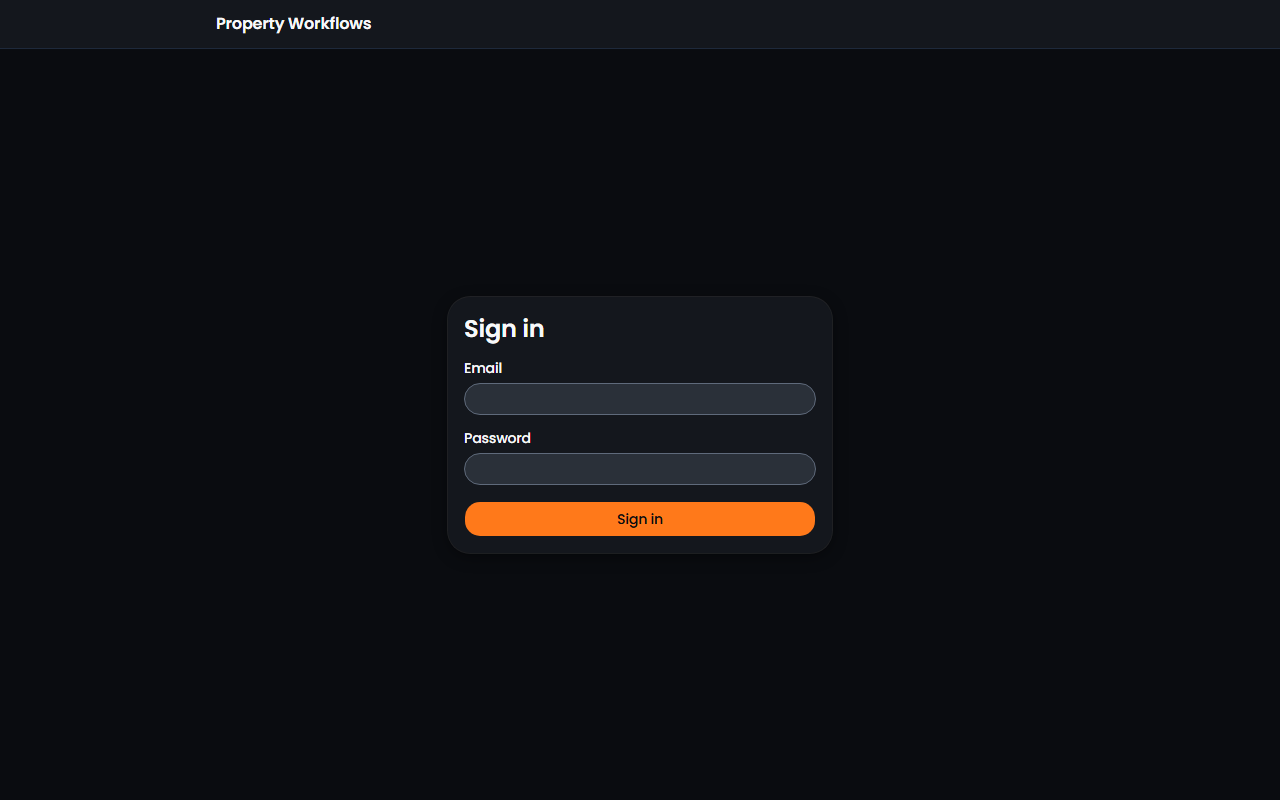
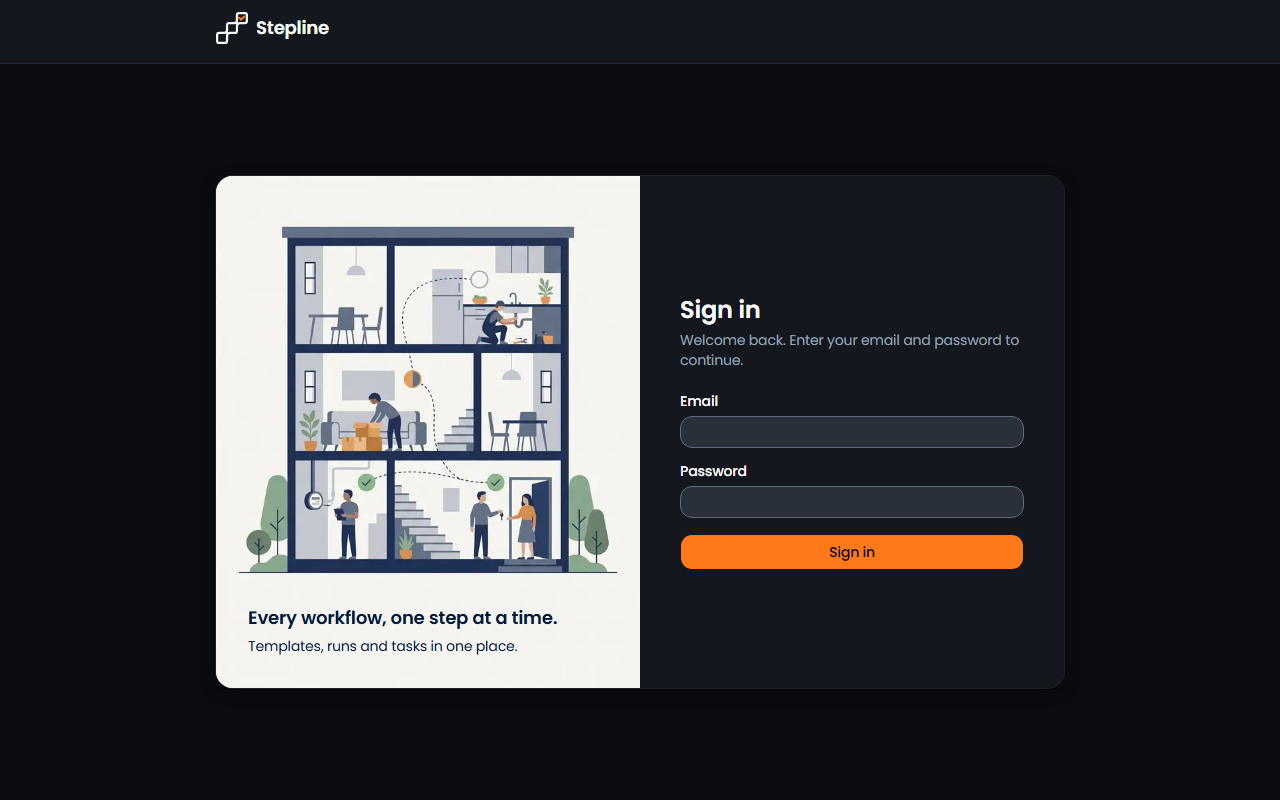
Назва й лого «Stepline», вхід з ілюстрацією, менший радіус, тонше кільце фокусу полів
- Logo (src/components/logo.tsx): SVG-значок за лого розробника (три сходинки + позначка «виконано») і назва;
  контур — колір тексту, позначка — новий токен brand, тож лого читається в обох темах; favicon — той самий значок.
- Вхід: картка з ілюстрацією зліва (з md) і формою справа в тій самій розкладці AppShell (AC-DSYS-03);
  підпис на ілюстрації — токени illustration / illustration-foreground (15.7:1 в обох темах).
- --radius 1rem → 0.75rem; поля вводу й NativeSelect — ring-1 замість ring-3 при фокусі.
- DESIGN.md: назва, нові токени й контраст, Logo в компонентах, стан «Не увійшов»; знімки «після» — з прод-збірки.

Changed region(s): [[0.1562, 0.2188, 0.8125, 0.875], [0.1562, 0.0, 0.2812, 0.0625]]

diff --git a/src/app/login/page.tsx b/src/app/login/page.tsx
@@ -1,10 +1,12 @@
+import Image from "next/image";
 import { AppShell } from "@/components/app-shell";
 import { Alert, AlertDescription } from "@/components/ui/alert";
 import { Button } from "@/components/ui/button";
-import { Card, CardContent, CardHeader, CardTitle } from "@/components/ui/card";
+import { Card } from "@/components/ui/card";
 import { Input } from "@/components/ui/input";
 import { Label } from "@/components/ui/label";
 import { login } from "./actions";
+import hero from "./login-hero.jpg";
 
 // Тексти — спокійні, без звинувачень (DESIGN.md, розділ 1); помилка входу не підказує, чи існує email.
 const ERRORS: Record<string, string> = {
@@ -12,6 +14,8 @@ const ERRORS: Record<string, string> = {
   invalid: "The email or password is not correct.",
 };
 
+// Вхід — у тій самій розкладці AppShell (AC-DSYS-03): картка з ілюстрацією зліва (з md) і формою справа; на телефоні —
+// лише форма. Ілюстрація декоративна (порожній alt); підпис на ній — токени illustration (DESIGN.md, розділ 2).
 export default async function LoginPage({ searchParams }: PageProps<"/login">) {
   const { error } = await searchParams;
   const message = typeof error === "string" && Object.hasOwn(ERRORS, error) ? ERRORS[error] : undefined;
@@ -19,13 +23,27 @@ export default async function LoginPage({ searchParams }: PageProps<"/login">) {
   return (
     <AppShell>
       <main className="flex flex-1 items-start justify-center sm:items-center">
-        <Card className="w-full max-w-sm">
-          <CardHeader>
-            <CardTitle>
+        <Card className="w-full max-w-sm gap-0 py-0 md:grid md:max-w-none md:grid-cols-2">
+          <div className="relative hidden min-h-[32rem] bg-illustration md:block">
+            <Image
+              src={hero}
+              alt=""
+              fill
+              preload
+              placeholder="blur"
+              sizes="(min-width: 768px) 28rem, 1px"
+              className="object-cover object-top"
+            />
+            <div className="absolute inset-x-0 bottom-0 flex flex-col gap-1 p-8 text-illustration-foreground">
+              <p className="text-lg font-semibold">Every workflow, one step at a time.</p>
+              <p className="text-sm">Templates, runs and tasks in one place.</p>
+            </div>
+          </div>
+          <div className="flex flex-col justify-center gap-6 p-6 sm:p-10">
+            <div className="flex flex-col gap-1">
               <h1 className="text-2xl font-semibold">Sign in</h1>
-            </CardTitle>
-          </CardHeader>
-          <CardContent>
+              <p className="text-sm text-muted-foreground">Welcome back. Enter your email and password to continue.</p>
+            </div>
             <form action={login} className="flex flex-col gap-4">
               {message ? (
                 <Alert variant="destructive">
@@ -44,7 +62,7 @@ export default async function LoginPage({ searchParams }: PageProps<"/login">) {
                 Sign in
               </Button>
             </form>
-          </CardContent>
+          </div>
         </Card>
       </main>
     </AppShell>

diff --git a/src/app/globals.css b/src/app/globals.css
@@ -36,6 +36,9 @@
   --color-status-done-foreground: var(--status-done-foreground);
   --color-status-unpublished: var(--status-unpublished);
   --color-status-unpublished-foreground: var(--status-unpublished-foreground);
+  --color-brand: var(--brand);
+  --color-illustration: var(--illustration);
+  --color-illustration-foreground: var(--illustration-foreground);
   --radius-sm: calc(var(--radius) * 0.6);
   --radius-md: calc(var(--radius) * 0.8);
   --radius-lg: var(--radius);
@@ -50,7 +53,7 @@
 }
 
 :root {
-  --radius: 1rem;
+  --radius: 0.75rem;
   --tracking-normal: -0.01em;
   --background: oklch(1 0 0);
   --foreground: oklch(0.2226 0.0753 255.7444);
@@ -78,6 +81,10 @@
   --status-done-foreground: oklch(0.42 0.12 150);
   --status-unpublished: oklch(0.94 0.1 92);
   --status-unpublished-foreground: oklch(0.43 0.09 65);
+  --brand: oklch(0.7336 0.1843 52.938);
+  /* ілюстрація входу світла в обох темах, тож її тло й текст на ній у темній темі не змінюються */
+  --illustration: oklch(0.967 0.004 95);
+  --illustration-foreground: oklch(0.2226 0.0753 255.7444);
   --elevation-xs: 0px 4px 10px 0px hsl(0 0% 0% / 0.03);
   --elevation-sm: 0px 4px 10px 0px hsl(0 0% 0% / 0.05), 0px 1px 2px -1px hsl(0 0% 0% / 0.05);
   --elevation-md: 0px 4px 10px 0px hsl(0 0% 0% / 0.05), 0px 2px 4px -1px hsl(0 0% 0% / 0.05);
@@ -112,6 +119,7 @@
     --status-done-foreground: oklch(0.88 0.09 150);
     --status-unpublished: oklch(0.33 0.06 85);
     --status-unpublished-foreground: oklch(0.93 0.09 95);
+    --brand: oklch(0.7222 0.1875 48.4986);
     --elevation-xs: 0px 4px 15px 0px hsl(0 0% 0% / 0.2);
     --elevation-sm: 0px 4px 15px 0px hsl(0 0% 0% / 0.4), 0px 1px 2px -1px hsl(0 0% 0% / 0.4);
     --elevation-md: 0px 4px 15px 0px hsl(0 0% 0% / 0.4), 0px 2px 4px -1px hsl(0 0% 0% / 0.4);

diff --git a/src/components/ui/native-select.tsx b/src/components/ui/native-select.tsx
@@ -23,7 +23,7 @@ function NativeSelect({
       <select
         data-slot="native-select"
         data-size={size}
-        className="h-8 w-full min-w-0 appearance-none rounded-lg border border-input bg-transparent py-1 pr-8 pl-2.5 text-sm transition-colors outline-none select-none selection:bg-primary selection:text-primary-foreground placeholder:text-muted-foreground focus-visible:border-ring focus-visible:ring-3 focus-visible:ring-ring/50 disabled:pointer-events-none disabled:cursor-not-allowed aria-invalid:border-destructive aria-invalid:ring-3 aria-invalid:ring-destructive/20 data-[size=sm]:h-7 data-[size=sm]:rounded-[min(var(--radius-md),10px)] data-[size=sm]:py-0.5 dark:bg-input/30 dark:hover:bg-input/50 dark:aria-invalid:border-destructive/50 dark:aria-invalid:ring-destructive/40"
+        className="h-8 w-full min-w-0 appearance-none rounded-lg border border-input bg-transparent py-1 pr-8 pl-2.5 text-sm transition-colors outline-none select-none selection:bg-primary selection:text-primary-foreground placeholder:text-muted-foreground focus-visible:border-ring focus-visible:ring-1 focus-visible:ring-ring/50 disabled:pointer-events-none disabled:cursor-not-allowed aria-invalid:border-destructive aria-invalid:ring-3 aria-invalid:ring-destructive/20 data-[size=sm]:h-7 data-[size=sm]:rounded-[min(var(--radius-md),10px)] data-[size=sm]:py-0.5 dark:bg-input/30 dark:hover:bg-input/50 dark:aria-invalid:border-destructive/50 dark:aria-invalid:ring-destructive/40"
         {...props}
       />
       <ChevronDownIcon className="pointer-events-none absolute top-1/2 right-2.5 size-4 -translate-y-1/2 text-muted-foreground select-none" aria-hidden="true" data-slot="native-select-icon" />

diff --git a/src/components/ui/input.tsx b/src/components/ui/input.tsx
@@ -8,7 +8,7 @@ function Input({ className, type, ...props }: React.ComponentProps<"input">) {
       type={type}
       data-slot="input"
       className={cn(
-        "h-8 w-full min-w-0 rounded-lg border border-input bg-transparent px-2.5 py-1 text-base transition-colors outline-none file:inline-flex file:h-6 file:border-0 file:bg-transparent file:text-sm file:font-medium file:text-foreground placeholder:text-muted-foreground focus-visible:border-ring focus-visible:ring-3 focus-visible:ring-ring/50 disabled:pointer-events-none disabled:cursor-not-allowed disabled:bg-input/50 disabled:opacity-50 aria-invalid:border-destructive aria-invalid:ring-3 aria-invalid:ring-destructive/20 md:text-sm dark:bg-input/30 dark:disabled:bg-input/80 dark:aria-invalid:border-destructive/50 dark:aria-invalid:ring-destructive/40",
+        "h-8 w-full min-w-0 rounded-lg border border-input bg-transparent px-2.5 py-1 text-base transition-colors outline-none file:inline-flex file:h-6 file:border-0 file:bg-transparent file:text-sm file:font-medium file:text-foreground placeholder:text-muted-foreground focus-visible:border-ring focus-visible:ring-1 focus-visible:ring-ring/50 disabled:pointer-events-none disabled:cursor-not-allowed disabled:bg-input/50 disabled:opacity-50 aria-invalid:border-destructive aria-invalid:ring-3 aria-invalid:ring-destructive/20 md:text-sm dark:bg-input/30 dark:disabled:bg-input/80 dark:aria-invalid:border-destructive/50 dark:aria-invalid:ring-destructive/40",
         className
       )}
       {...props}

diff --git a/src/components/logo.tsx b/src/components/logo.tsx
@@ -1,0 +1,26 @@
+import { cn } from "cn";
+
+// Логотип Stepline (DESIGN.md, розділ 5): значок — три сходинки-кроки з позначкою «виконано» у верхній, поруч назва.
+// Контур бере колір тексту, позначка — токен brand, тож лого однаково читається у світлій і темній темі.
+const STEPS =
+  "M12 432V342a30 30 0 0 1 30-30h76a44 44 0 0 0 44-44v-76a30 30 0 0 1 30-30h76a44 44 0 0 0 44-44V42a30 30 0 0 1 30-30h90" +
+  "a30 30 0 0 1 30 30v90a30 30 0 0 1-30 30h-76a44 44 0 0 0-44 44v76a30 30 0 0 1-30 30h-76a44 44 0 0 0-44 44v76" +
+  "a30 30 0 0 1-30 30H42a30 30 0 0 1-30-30Z";
+
+export function LogoMark({ className }: { className?: string }) {
+  return (
+    <svg viewBox="-5 -5 484 484" fill="none" strokeLinecap="round" strokeLinejoin="round" aria-hidden className={className}>
+      <path d={STEPS} stroke="currentColor" strokeWidth={34} />
+      <path d="M347 82l25 30 53-50" className="stroke-brand" strokeWidth={30} />
+    </svg>
+  );
+}
+
+export function Logo({ className }: { className?: string }) {
+  return (
+    <span className={cn("inline-flex items-center gap-2", className)}>
+      <LogoMark className="size-8 shrink-0" />
+      <span className="text-lg font-semibold">Stepline</span>
+    </span>
+  );
+}

diff --git a/src/components/app-shell.tsx b/src/components/app-shell.tsx
@@ -1,9 +1,10 @@
 import Link from "next/link";
 import { signOut } from "@/app/login/actions";
+import { Logo } from "@/components/logo";
 import { Badge } from "@/components/ui/badge";
 import { Button } from "@/components/ui/button";
 
-// Одна розкладка для всіх сторінок, зокрема для входу (DESIGN.md, розділ 4): шапка з назвою застосунку, а для
+// Одна розкладка для всіх сторінок, зокрема для входу (DESIGN.md, розділ 4): шапка з логотипом застосунку, а для
 // користувача, який увійшов, — навігація, email, роль і вихід. Вміст сторінки — у тому самому контейнері.
 export function AppShell({
   user,
@@ -17,8 +18,8 @@ export function AppShell({
       <header className="border-b bg-card">
         <div className="mx-auto flex w-full max-w-4xl flex-wrap items-center justify-between gap-3 px-4 py-3 sm:px-6">
           <div className="flex items-center gap-6">
-            <Link href="/" className="text-base font-semibold">
-              Property Workflows
+            <Link href="/">
+              <Logo />
             </Link>
             {user ? (
               <nav aria-label="Main" className="flex gap-4 text-sm">

diff --git a/src/app/layout.tsx b/src/app/layout.tsx
@@ -15,8 +15,8 @@ const jetbrainsMono = JetBrains_Mono({
 });
 
 export const metadata: Metadata = {
-  title: "Property Workflows",
-  description: "Templates, runs and tasks of a property management agency",
+  title: "Stepline",
+  description: "Workflow templates, runs and tasks — step by step",
 };
 
 export default function RootLayout({ children }: LayoutProps<"/">) {

diff --git a/DESIGN.md b/DESIGN.md
@@ -1,4 +1,4 @@
-# Дизайн-система: Property Workflows
+# Дизайн-система: Stepline
 
 - **Джерело:** AI-чат: Claude Code (агент у цьому репо), промпт — в описі PR дизайн-системи. Основа палітри, шрифтів,
   радіуса й тіней — тема tweakcn «Nettinx Design System» (https://tweakcn.com/themes/cmqbb3gdw000104l29dvzaqja), обрана
@@ -10,7 +10,8 @@
 
 ## 1. Огляд
 
-Внутрішній застосунок агенції з управління нерухомістю: адміністратор налаштовує шаблони процесів, менеджери
+**Stepline** — внутрішній застосунок для покрокових процесів (перший клієнт — агенція з управління нерухомістю, але
+назва й лого не прив'язані до нерухомості): адміністратор налаштовує шаблони процесів, менеджери
 запускають їх для випадків і відмічають задачі. Працюють переважно за ноутбуком, інколи з телефона. Тон — **спокійний,
 діловий, точний**: без жартів, знаків оклику, звинувачень («You made a mistake») і жаргону. Пріоритет — **щільність**:
 менеджер переглядає багато запусків одразу, тож таблиці щільні, але читабельні на телефоні. Вигляд — світлий, з
@@ -31,6 +32,10 @@
   суцільною помаранчевою основною дією.
 - Статуси — власні токени `status-*`, кожен із текстом поруч: «to do» — нейтральний сірий, «in progress» — синій,
   «done» і «completed» — зелений, «Unpublished changes» — теплий жовтий.
+- `brand` (помаранчевий, як `primary`) — **лише позначка «виконано» в логотипі**; окремий токен, щоб правило «primary —
+  лише основна дія» не мало винятків. Контраст для логотипа WCAG не нормує.
+- `illustration` / `illustration-foreground` — лише панель ілюстрації на сторінці входу та підпис на ній. Ілюстрація
+  світла в обох темах, тому й ці токени в темній темі не змінюються.
 
 **Що змінено відносно теми-основи** (решта значень — як у темі):
 - `primary-foreground`: у темі білий — на помаранчевому `primary` контраст ~2.4:1 (світла) і ~2.6:1 (темна). Текст
@@ -39,6 +44,8 @@
 - `destructive`: у світлій темі затемнено до тексту ≥ 4.5:1; у темній — світлий червоний, бо в темі він темний (для тла,
   а не для тексту).
 - Додано статусні токени `status-*` — у темі їх немає; нейтральні відтінки — холодні, як сірі теми.
+- Додано `brand` (значення `primary` теми) і `illustration` / `illustration-foreground` (тло ілюстрації входу й
+  темно-синій `foreground` світлої теми).
 
 | Токен | Для чого | Світла | Темна | Клас |
 |---|---|---|---|---|
@@ -57,6 +64,8 @@
 | `status-progress` / `-foreground` | статус запуску «in progress» (синій) | `oklch(0.93 0.045 250)` / `oklch(0.43 0.15 258)` | `oklch(0.31 0.07 255)` / `oklch(0.88 0.06 250)` | `bg-status-progress`, `text-status-progress-foreground` |
 | `status-done` / `-foreground` | «done» і «completed» (зелений) | `oklch(0.93 0.07 150)` / `oklch(0.42 0.12 150)` | `oklch(0.31 0.06 150)` / `oklch(0.88 0.09 150)` | `bg-status-done`, `text-status-done-foreground` |
 | `status-unpublished` / `-foreground` | «Unpublished changes» (теплий жовтий) | `oklch(0.94 0.1 92)` / `oklch(0.43 0.09 65)` | `oklch(0.33 0.06 85)` / `oklch(0.93 0.09 95)` | `bg-status-unpublished`, `text-status-unpublished-foreground` |
+| `brand` | позначка «виконано» в логотипі (лише там) | як `primary` | як `primary` | `stroke-brand` |
+| `illustration` / `-foreground` | панель ілюстрації входу й підпис на ній | `oklch(0.967 0.004 95)` / як `foreground` | як у світлій | `bg-illustration`, `text-illustration-foreground` |
 
 ### Контраст
 
@@ -79,6 +88,7 @@
 | `status-progress-foreground` на `status-progress` | 6.7 | 9.2 | ≥ 4.5 |
 | `status-done-foreground` на `status-done` | 6.6 | 9.2 | ≥ 4.5 |
 | `status-unpublished-foreground` на `status-unpublished` | 6.9 | 10.0 | ≥ 4.5 |
+| `illustration-foreground` на `illustration` | 15.7 | 15.7 | ≥ 4.5 |
 | `input` на `card` | 3.4 | 3.3 | ≥ 3 |
 | `input` на `background` | 3.6 | 3.6 | ≥ 3 |
 | `ring` на `background` | 17.3 | 7.5 | ≥ 3 |
@@ -96,13 +106,14 @@
 | Основний текст | `text-sm` (таблиці, форми), `text-base` (повідомлення стану) | рядки таблиць, поля |
 | Підпис, допоміжний текст | `text-sm text-muted-foreground` | назва шаблону в рядку, email виконавця |
 | Числа (прогрес, дати) | `tabular-nums` | «2 of 5 done», «12.10.2026 14:05» |
+| Назва в логотипі | `text-lg font-semibold` | «Stepline» у шапці (`Logo`) |
 
 ## 4. Відступи, радіуси й тіні
 
 - Ширина контенту — `max-w-4xl`, бічні відступи `px-4 sm:px-6`; між блоками сторінки — `gap-6`, усередині картки —
   `gap-4`, між полями форми — `gap-4`, між підписом і полем — `gap-2`.
 - Рядок таблиці — щільний: `py-2` (за замовчуванням `Table`).
-- Радіус — `--radius: 1rem` (з теми-основи); картки `rounded-xl`, поля й кнопки `rounded-lg`, бейджі статусів
+- Радіус — `--radius: 0.75rem` (у темі-основі 1rem — зменшено на прохання розробника); картки `rounded-xl`, поля й кнопки `rounded-lg`, бейджі статусів
   `rounded-full`.
 - Тіні — м'які, з теми-основи (`--elevation-*` → `shadow-xs/sm/md/lg`); картка — `shadow-sm`. Декоративних тіней і
   градієнтів немає.
@@ -124,6 +135,7 @@
 | `Badge` | через `StatusBadge` (`src/components/status-badge.tsx`) | статус — завжди слово + колір токена `status-*`; один і той самий статус однаковий на всіх сторінках |
 | `Alert` | `default`, `destructive` | помилка дії (`destructive`) над формою; текст — дослівно з AC |
 | `Dialog` | — | підтвердження незворотної дії з текстом «This cannot be undone» |
+| `Logo` (`src/components/logo.tsx`) | `Logo` (значок + назва), `LogoMark` (лише значок) | лише в шапці `AppShell`; значок — SVG: контур кольором тексту, позначка — `brand`; favicon — той самий значок на білій плитці (`src/app/favicon.ico`) |
 
 ## 6. Стани
 
@@ -132,7 +144,7 @@
 | Порожній список | текст `text-base` + посилання на наступну дію, **без порожньої таблиці** | «No runs yet. Launch a template to start one.» + «Launch a template» (AC-DSYS-04) |
 | Помилка дії | `Alert` (destructive) над формою; введене лишається у формі; нічого не записано | «Enter a case name», «A template needs at least one required task» |
 | Відмова в доступі | та сама розкладка сторінки, повідомлення й посилання назад, без даних | «Not enough rights» + «Back to templates» (AC-DSYS-02); «Run not found» (AC-TASK-10) |
-| Не увійшов | сторінка входу в тій самій розкладці, без даних | (AC-DSYS-03) |
+| Не увійшов | сторінка входу в тій самій розкладці, без даних: картка з ілюстрацією зліва (з `md`) і формою справа; на телефоні — лише форма | (AC-DSYS-03) |
 | Успіх | короткий текст поруч із результатом, без спливних вікон | «Version 2 saved» |
 | Незбережені зміни | `StatusBadge` «Unpublished changes» (теплий жовтий) біля назви шаблону | «Unpublished changes» |
 | Вимкнена дія | дію не показуємо, якщо роль її не має (перевірка — на сервері) | — |
@@ -140,7 +152,8 @@
 ## 7. Доступність — мінімум
 
 - Label у кожного поля; помилка поля пов'язана з полем (`aria-describedby`), повідомлення помилки — `role="alert"`.
-- Видимий фокус: `ring` на кожному інтерактивному елементі; Tab проходить форму по порядку.
+- Видимий фокус: `ring` на кожному інтерактивному елементі (у полів вводу — межа кольору `ring` і тонке кільце
+  `ring-1`); Tab проходить форму по порядку.
 - Контраст — таблиця в розділі 2.
 - Статус ніколи не лише кольором — поруч завжди текст.
 - Спершу семантичний HTML (`<button>`, `<table>`, `<label>`); `aria-*` — там, де HTML бракує, а не замість нього.
